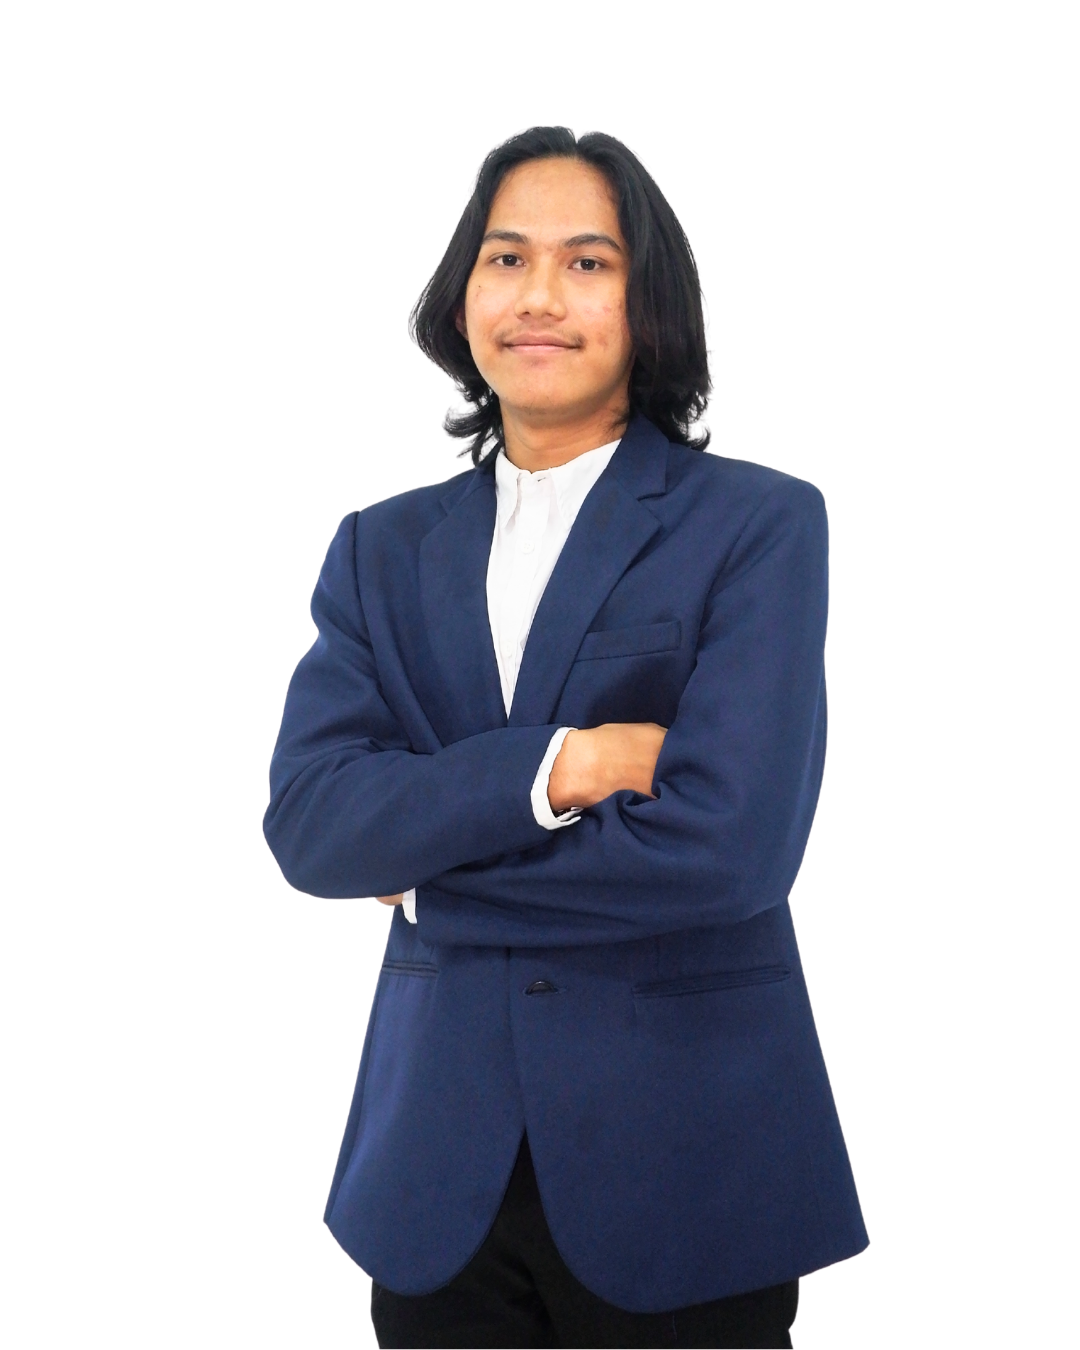
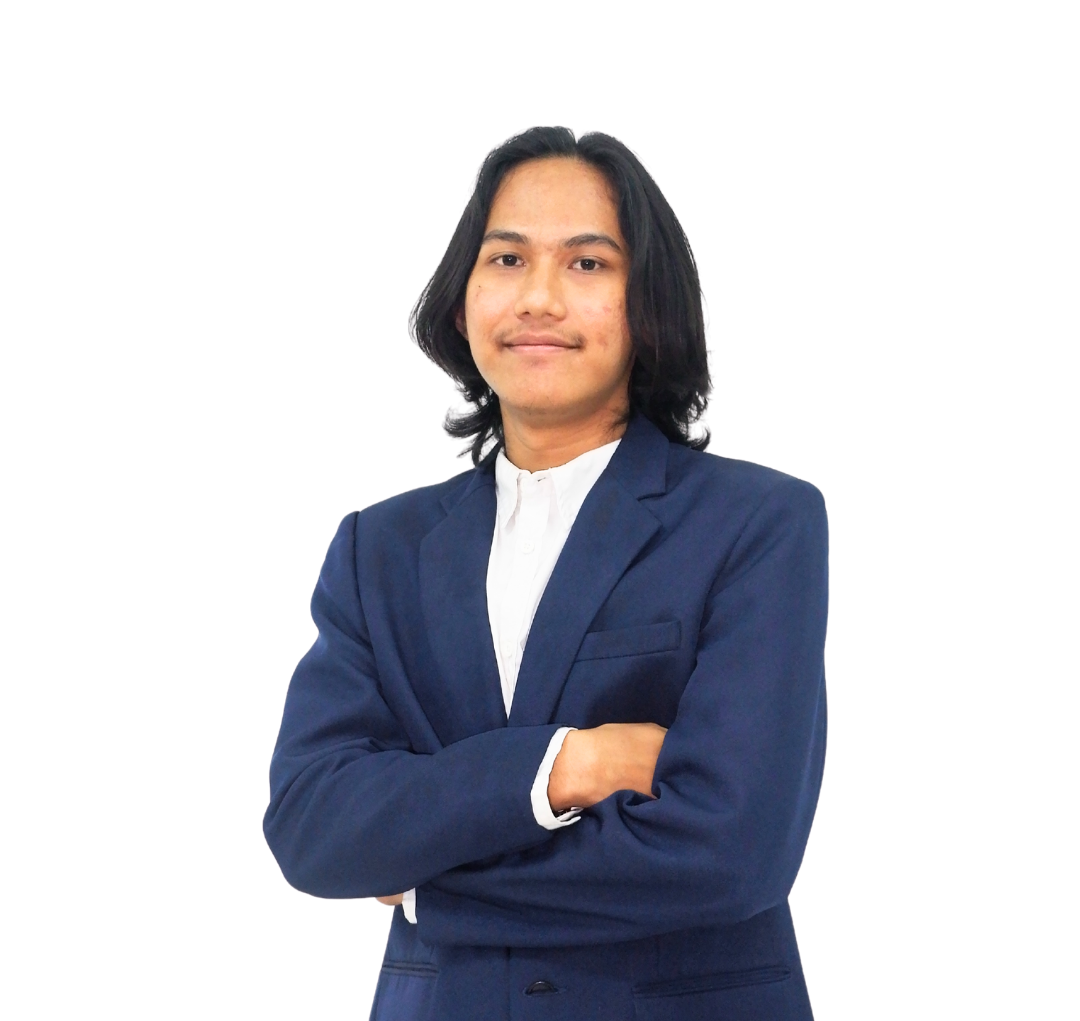
update Home.jsx

Changed region(s): [[0.2444, 0.0911, 0.825, 1.0]]

diff --git a/src/pages/Home.jsx b/src/pages/Home.jsx
@@ -170,7 +170,7 @@ const Home = () => {
                   <div className="w-full h-full flex items-center justify-center relative overflow-hidden">
                     {/* Profile image */}
                     <img
-                      src="/Data-Master-(AUSG)-Muhammad_Yusuf_Firizki.png"
+                      src="/Data-Master-(AUSG)-Muhammad_Yusuf_Firizki-Copy.png"
                       alt="Foto Profil Yusuf Firizki"
                       className="w-full h-full object-cover rounded-full border-4 border-white dark:border-gray-900"
                     />
